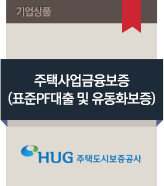
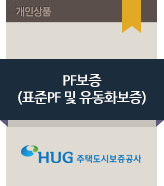
상품명 변경 및 익스플로러 보더 수정

diff --git a/html/help/기업_맞춤보증상품/help_cp_goods_0002_0.html b/html/help/기업_맞춤보증상품/help_cp_goods_0002_0.html
@@ -124,13 +124,15 @@
 	<div id="container">
 		<div class="contents">
 			<div class="help-wrap help-cont-wrap">
+				<!-- S : 171121  -->
 				<div class="tv-area">
-					<span class="ico-thumb"><img src="../../../common/img/ico/ico_cp_img02.png" alt="주택사업금융보증(표준PF대출 및 유동화보증)"></span>
+					<span class="ico-thumb"><img src="../../../common/img/ico/ico_cp_img02.png" alt="PF보증(표준PF 및 유동화보증)"></span>
 					<div class="top-box">
-						<span class="goods">주택사업금융보증(표준PF대출 및 유동화보증)</span>주택사업금융 원리금상환 지급을 보장받고 싶어요
-						<span class="img-wrap"><img src="../../../common/img/img/img_cp_goods02.png" alt="주택사업금융보증(표준PF대출 및 유동화보증)"></span>
+						<span class="goods">PF보증(표준PF 및 유동화보증)</span>주택사업금융 원리금상환 지급을 보장받고 싶어요
+						<span class="img-wrap"><img src="../../../common/img/img/img_cp_goods02.png" alt="PF보증(표준PF 및 유동화보증)"></span>
 					</div>
 				</div>
+				<!-- E : 171121  -->
 				<div class="content-info-cont">
 					<dl class="content-info">
 						<dt>보증금액</dt>
@@ -178,13 +180,15 @@
 								<span>주임대료 : 주택법상 주택 및 준주택<br>보증금 : 임대관리임대료보증이 발급된 주택</span>
 							</a>
 						</li>
+						<!-- S :171121 -->
 						<li>
 							<a href="#none">
-								<span class="goods-img"><img src="../../../common/img/img/img_cp_goods02.png" alt="주택사업금융보증(표준PF대출 및 유동화보증)"></span>
-								<span class="tit">주택사업금융보증(표준PF대출 및 유동화보증)</span>
+								<span class="goods-img"><img src="../../../common/img/img/img_cp_goods02.png" alt="PF보증(표준PF 및 유동화보증)"></span>
+								<span class="tit">PF보증(표준PF 및 유동화보증)</span>
 								<span>사업계획승인(건축연면적 2만㎡ 이상, 도시형생활주택 1만㎡ 이상)을 신청한 분양보증 대상사업</span>
 							</a>
 						</li>
+						<!-- E :171121 -->
 					</ul>
 				</div>
 			</div>

diff --git a/common/css/common.css b/common/css/common.css
@@ -999,10 +999,10 @@ input.inquiry {height:37px}
 .tbl-wrap .tbl-style02 thead th:first-child {border-left:0}
 .tbl-wrap .tbl-style02 tbody th,
 .tbl-wrap .tbl-style02 tbody td {padding:7px 0 7px 10px; font-size:11px; color:#666; text-align:left; border-top:1px solid #ccc; border-left:1px solid #ccc; word-wrap:break-word}
-/*S : 171121 */
+/*S : 171121_2 */
 .tbl-wrap .tbl-style02 tbody th:first-child,
-.tbl-wrap .tbl-style02 tbody tr:first-child td:first-child {border-left:0}
-/*E : 171121 */
+.tbl-wrap .tbl-style02 tbody td:first-child {border-left:0}
+/*E : 171121_2 */
 .tbl-wrap .tbl-style02 tbody th {background-color:#ececec}
 /*S : 171121 */
 .tbl-wrap .tbl-style02 th.txtC,
@@ -1014,9 +1014,10 @@ input.inquiry {height:37px}
 .tbl-style02.type02 {border-top:1px solid #0d6fb8}
 .tbl-style02.type02 tbody th {padding:7px 2px; background-color:#fff; text-align:center}
 .tbl-style02.type02 tbody td {padding-left:5px}
-/*S : 171121 */
-.tbl-wrap.video .tbl-style02 tbody td {padding-right:10px;}
-/*E : 171121 */
+/*S : 171121_2 */
+.tbl-wrap.video .tbl-style02 tbody td {padding-right:10px; border:1px solid #ccc;}
+.tbl-wrap.video .tbl-style02 tbody tr:first-child td:first-child {border-left:0}
+/*E : 171121_2 */
 /* tbl-style03 */
 .tbl-wrap .tbl-style03 {border-top:2px solid #e1e1e1}
 .tbl-wrap .tbl-style03 tbody th,

diff --git a/html/help/기업_맞춤보증상품/help_cp_goods_0005_0.html b/html/help/기업_맞춤보증상품/help_cp_goods_0005_0.html
@@ -180,13 +180,15 @@
 								<span>사업계획승인을 얻어 건설하는 주택사업 분양하는 주택이 30세대 이상인 경우에 한함</span>
 							</a>
 						</li>
+						<!-- S :171121 -->
 						<li>
 							<a href="#none">
-								<span class="goods-img"><img src="../../../common/img/img/img_cp_goods02.png" alt="주택사업금융보증(표준PF대출 및 유동화 보증)"></span>
-								<span class="tit">주택사업금융보증(표준PF대출 및 유동화보증)</span>
+								<span class="goods-img"><img src="../../../common/img/img/img_cp_goods02.png" alt="PF보증(표준PF 및 유동화보증)"></span>
+								<span class="tit">PF보증(표준PF 및 유동화보증)</span>
 								<span>사업계획승인(건축연면적 2만㎡ 이상, 도시형생활주택 1만㎡ 이상)을 신청한 분양보증 대상사업</span>
 							</a>
 						</li>
+						<!-- E :171121 -->
 					</ul>
 				</div>
 			</div>

diff --git a/html/help/기업_맞춤보증상품/help_cp_goods_0006_0.html b/html/help/기업_맞춤보증상품/help_cp_goods_0006_0.html
@@ -179,13 +179,15 @@
 								<span>사업계획승인을 얻어 건설하는 주택사업 분양하는 주택이 30세대 이상인 경우에 한함</span>
 							</a>
 						</li>
+						<!-- S :171121 -->
 						<li>
 							<a href="#none">
-								<span class="goods-img"><img src="../../../common/img/img/img_cp_goods02.png" alt="주택사업금융보증(표준PF대출 및 유동화 보증)"></span>
-								<span class="tit">주택사업금융보증(표준PF대출 및 유동화보증)</span>
+								<span class="goods-img"><img src="../../../common/img/img/img_cp_goods02.png" alt="PF보증(표준PF 및 유동화보증)"></span>
+								<span class="tit">PF보증(표준PF 및 유동화보증)</span>
 								<span>사업계획승인(건축연면적 2만㎡ 이상, 도시형생활주택 1만㎡ 이상)을 신청한 분양보증 대상사업</span>
 							</a>
 						</li>
+						<!-- E :171121 -->
 					</ul>
 				</div>
 			</div>

diff --git a/html/help/기업_맞춤보증상품/help_cp_goods_0007_0.html b/html/help/기업_맞춤보증상품/help_cp_goods_0007_0.html
@@ -184,13 +184,15 @@
 								<span>사업계획승인을 얻어 건설하는 주택사업 분양하는 주택이 30세대 이상인 경우에 한함</span>
 							</a>
 						</li>
+						<!-- S :171121 -->
 						<li>
 							<a href="#none">
-								<span class="goods-img"><img src="../../../common/img/img/img_cp_goods02.png" alt="주택사업금융보증(표준PF대출 및 유동화 보증)"></span>
-								<span class="tit">주택사업금융보증(표준PF대출 및 유동화보증)</span>
+								<span class="goods-img"><img src="../../../common/img/img/img_cp_goods02.png" alt="PF보증(표준PF 및 유동화보증)"></span>
+								<span class="tit">PF보증(표준PF 및 유동화보증)</span>
 								<span>사업계획승인(건축연면적 2만㎡ 이상, 도시형생활주택 1만㎡ 이상)을 신청한 분양보증 대상사업</span>
 							</a>
 						</li>
+						<!-- E :171121 -->
 					</ul>
 				</div>
 			</div>

diff --git a/html/help/기업_맞춤보증상품/help_cp_goods_0008_0.html b/html/help/기업_맞춤보증상품/help_cp_goods_0008_0.html
@@ -180,13 +180,15 @@
 								<span>사업계획승인을 얻어 건설하는 주택사업 분양하는 주택이 30세대 이상인 경우에 한함</span>
 							</a>
 						</li>
+						<!-- S :171121 -->
 						<li>
 							<a href="#none">
-								<span class="goods-img"><img src="../../../common/img/img/img_cp_goods02.png" alt="주택사업금융보증(표준PF대출 및 유동화 보증)"></span>
-								<span class="tit">주택사업금융보증(표준PF대출 및 유동화보증)</span>
+								<span class="goods-img"><img src="../../../common/img/img/img_cp_goods02.png" alt="PF보증(표준PF 및 유동화보증)"></span>
+								<span class="tit">PF보증(표준PF 및 유동화보증)</span>
 								<span>사업계획승인(건축연면적 2만㎡ 이상, 도시형생활주택 1만㎡ 이상)을 신청한 분양보증 대상사업</span>
 							</a>
 						</li>
+						<!-- E :171121 -->
 					</ul>
 				</div>
 			</div>

diff --git a/html/help/기업_맞춤보증상품/help_cp_goods_0009_0.html b/html/help/기업_맞춤보증상품/help_cp_goods_0009_0.html
@@ -177,13 +177,15 @@
 								<span>사업계획승인을 얻어 건설하는 주택사업 분양하는 주택이 30세대 이상인 경우에 한함</span>
 							</a>
 						</li>
+						<!-- S :171121 -->
 						<li>
 							<a href="#none">
-								<span class="goods-img"><img src="../../../common/img/img/img_cp_goods02.png" alt="주택사업금융보증(표준PF대출 및 유동화 보증)"></span>
-								<span class="tit">주택사업금융보증(표준PF대출 및 유동화보증)</span>
+								<span class="goods-img"><img src="../../../common/img/img/img_cp_goods02.png" alt="PF보증(표준PF 및 유동화보증)"></span>
+								<span class="tit">PF보증(표준PF 및 유동화보증)</span>
 								<span>사업계획승인(건축연면적 2만㎡ 이상, 도시형생활주택 1만㎡ 이상)을 신청한 분양보증 대상사업</span>
 							</a>
 						</li>
+						<!-- E :171121 -->
 					</ul>
 				</div>
 			</div>

diff --git a/html/help/기업_맞춤보증상품/help_cp_goods_0010_0.html b/html/help/기업_맞춤보증상품/help_cp_goods_0010_0.html
@@ -177,13 +177,15 @@
 								<span>사업계획승인을 얻어 건설하는 주택사업 분양하는 주택이 30세대 이상인 경우에 한함</span>
 							</a>
 						</li>
+						<!-- S :171121 -->
 						<li>
 							<a href="#none">
-								<span class="goods-img"><img src="../../../common/img/img/img_cp_goods02.png" alt="주택사업금융보증(표준PF대출 및 유동화 보증)"></span>
-								<span class="tit">주택사업금융보증(표준PF대출 및 유동화보증)</span>
+								<span class="goods-img"><img src="../../../common/img/img/img_cp_goods02.png" alt="PF보증(표준PF 및 유동화보증)"></span>
+								<span class="tit">PF보증(표준PF 및 유동화보증)</span>
 								<span>사업계획승인(건축연면적 2만㎡ 이상, 도시형생활주택 1만㎡ 이상)을 신청한 분양보증 대상사업</span>
 							</a>
 						</li>
+						<!-- E :171121 -->
 					</ul>
 				</div>
 			</div>

diff --git a/html/help/기업_맞춤보증상품/help_cp_goods_0011_0.html b/html/help/기업_맞춤보증상품/help_cp_goods_0011_0.html
@@ -181,13 +181,15 @@
 								<span>사업계획승인을 얻어 건설하는 주택사업 분양하는 주택이 30세대 이상인 경우에 한함</span>
 							</a>
 						</li>
+						<!-- S :171121 -->
 						<li>
 							<a href="#none">
-								<span class="goods-img"><img src="../../../common/img/img/img_cp_goods02.png" alt="주택사업금융보증(표준PF대출 및 유동화 보증)"></span>
-								<span class="tit">주택사업금융보증(표준PF대출 및 유동화보증)</span>
+								<span class="goods-img"><img src="../../../common/img/img/img_cp_goods02.png" alt="PF보증(표준PF 및 유동화보증)"></span>
+								<span class="tit">PF보증(표준PF 및 유동화보증)</span>
 								<span>사업계획승인(건축연면적 2만㎡ 이상, 도시형생활주택 1만㎡ 이상)을 신청한 분양보증 대상사업</span>
 							</a>
 						</li>
+						<!-- E :171121 -->
 					</ul>
 				</div>
 			</div>

diff --git a/html/help/기업_맞춤보증상품/help_cp_goods_0012_0.html b/html/help/기업_맞춤보증상품/help_cp_goods_0012_0.html
@@ -177,13 +177,15 @@
 								<span>사업계획승인을 얻어 건설하는 주택사업 분양하는 주택이 30세대 이상인 경우에 한함</span>
 							</a>
 						</li>
+						<!-- S :171121 -->
 						<li>
 							<a href="#none">
-								<span class="goods-img"><img src="../../../common/img/img/img_cp_goods02.png" alt="주택사업금융보증(표준PF대출 및 유동화 보증)"></span>
-								<span class="tit">주택사업금융보증(표준PF대출 및 유동화보증)</span>
+								<span class="goods-img"><img src="../../../common/img/img/img_cp_goods02.png" alt="PF보증(표준PF 및 유동화보증)"></span>
+								<span class="tit">PF보증(표준PF 및 유동화보증)</span>
 								<span>사업계획승인(건축연면적 2만㎡ 이상, 도시형생활주택 1만㎡ 이상)을 신청한 분양보증 대상사업</span>
 							</a>
 						</li>
+						<!-- E :171121 -->
 					</ul>
 				</div>
 			</div>

diff --git a/html/help/기업_맞춤보증상품/help_cp_goods_0013_0.html b/html/help/기업_맞춤보증상품/help_cp_goods_0013_0.html
@@ -178,13 +178,15 @@
 								<span>사업계획승인을 얻어 건설하는 주택사업 분양하는 주택이 30세대 이상인 경우에 한함</span>
 							</a>
 						</li>
+						<!-- S :171121 -->
 						<li>
 							<a href="#none">
-								<span class="goods-img"><img src="../../../common/img/img/img_cp_goods02.png" alt="주택사업금융보증(표준PF대출 및 유동화 보증)"></span>
-								<span class="tit">주택사업금융보증(표준PF대출 및 유동화보증)</span>
+								<span class="goods-img"><img src="../../../common/img/img/img_cp_goods02.png" alt="PF보증(표준PF 및 유동화보증)"></span>
+								<span class="tit">PF보증(표준PF 및 유동화보증)</span>
 								<span>사업계획승인(건축연면적 2만㎡ 이상, 도시형생활주택 1만㎡ 이상)을 신청한 분양보증 대상사업</span>
 							</a>
 						</li>
+						<!-- E :171121 -->
 					</ul>
 				</div>
 			</div>

diff --git a/html/help/기업_맞춤보증상품/help_cp_goods_0014_0.html b/html/help/기업_맞춤보증상품/help_cp_goods_0014_0.html
@@ -178,13 +178,15 @@
 								<span>사업계획승인을 얻어 건설하는 주택사업 분양하는 주택이 30세대 이상인 경우에 한함</span>
 							</a>
 						</li>
+						<!-- S :171121 -->
 						<li>
 							<a href="#none">
-								<span class="goods-img"><img src="../../../common/img/img/img_cp_goods02.png" alt="주택사업금융보증(표준PF대출 및 유동화 보증)"></span>
-								<span class="tit">주택사업금융보증(표준PF대출 및 유동화보증)</span>
+								<span class="goods-img"><img src="../../../common/img/img/img_cp_goods02.png" alt="PF보증(표준PF 및 유동화보증)"></span>
+								<span class="tit">PF보증(표준PF 및 유동화보증)</span>
 								<span>사업계획승인(건축연면적 2만㎡ 이상, 도시형생활주택 1만㎡ 이상)을 신청한 분양보증 대상사업</span>
 							</a>
 						</li>
+						<!-- E :171121 -->
 					</ul>
 				</div>
 			</div>
